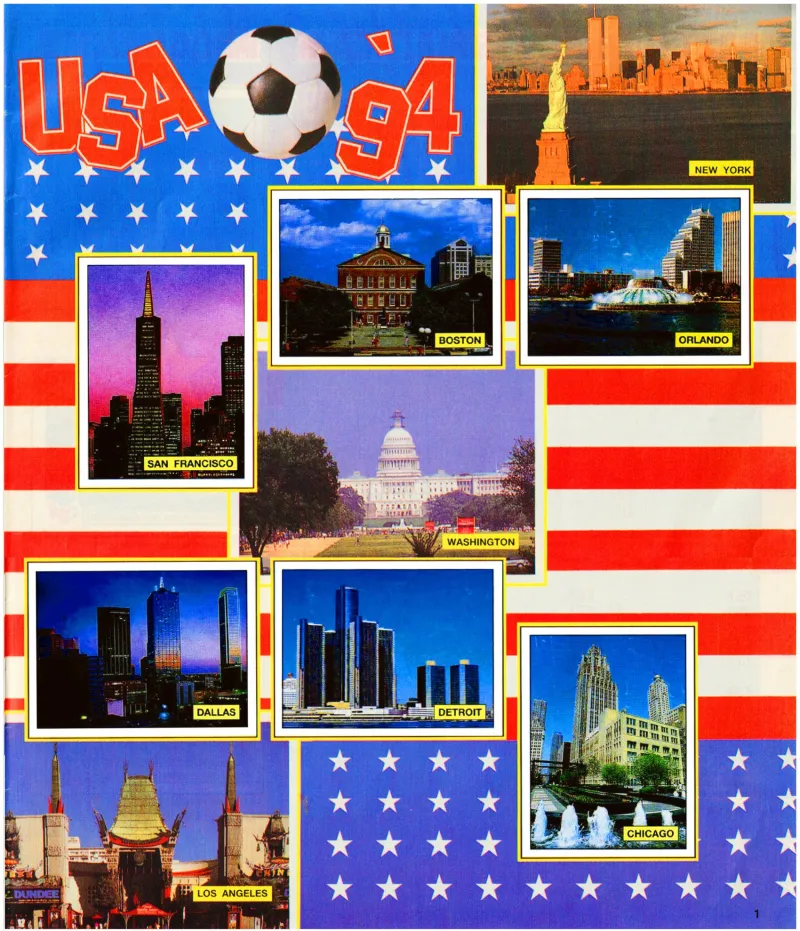
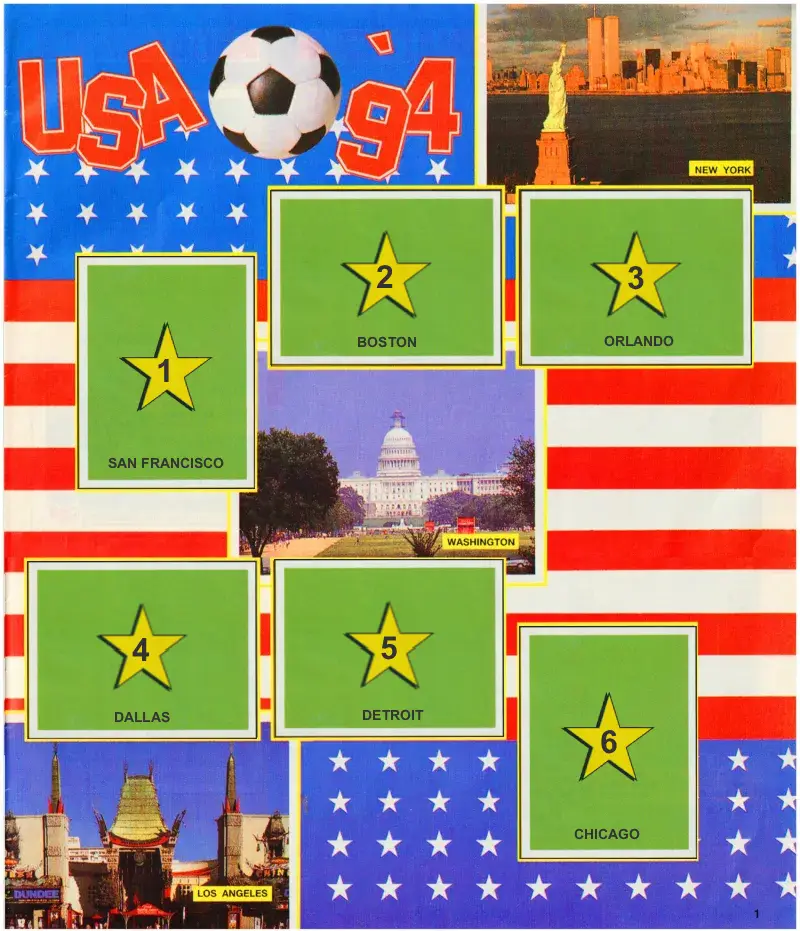
fix: Limpiar huecos vacíos del álbum y mejorar precarga de cromos
- Eliminar tooltip, borde y overlay de huecos de cromos no obtenidos
- Ampliar precarga de imágenes a 3 páginas adelante para evitar flash
- Actualizar imagen de página 3

diff --git a/resources/views/livewire/album.blade.php b/resources/views/livewire/album.blade.php
@@ -126,7 +126,7 @@
                                         @else
                                             {{-- Empty Slot (user doesn't have this sticker) --}}
                                             <div
-                                                class="sticker-slot sticker-empty absolute group"
+                                                class="sticker-slot sticker-empty absolute"
                                                 style="
                                                     left: {{ $sticker['position_x'] }}%;
                                                     top: {{ $sticker['position_y'] }}%;
@@ -135,17 +135,7 @@
                                                 "
                                                 data-sticker-id="{{ $sticker['id'] }}"
                                                 data-sticker-number="{{ $sticker['number'] }}"
-                                                title="{{ $sticker['name'] }}"
-                                            >
-                                                <div class="w-full h-full rounded border border-dashed border-gray-400/50 bg-gray-500/10 flex items-center justify-center">
-                                                    <span class="text-gray-500/70 dark:text-gray-400/50 font-medium text-xs sm:text-sm">{{ $sticker['number'] }}</span>
-                                                </div>
-                                                {{-- Tooltip --}}
-                                                <div class="sticker-tooltip opacity-0 group-hover:opacity-100 absolute bottom-full left-1/2 -translate-x-1/2 mb-1 px-2 py-1 bg-gray-800 text-white text-xs rounded whitespace-nowrap z-20 pointer-events-none transition-opacity">
-                                                    {{ $sticker['name'] }}
-                                                    <div class="absolute top-full left-1/2 -translate-x-1/2 border-4 border-transparent border-t-gray-800"></div>
-                                                </div>
-                                            </div>
+                                            ></div>
                                         @endif
                                     @endforeach
                                 @endif
@@ -269,7 +259,9 @@
                     const pagesToLoad = [
                         currentPageIndex - 1,
                         currentPageIndex,
-                        currentPageIndex + 1
+                        currentPageIndex + 1,
+                        currentPageIndex + 2,
+                        currentPageIndex + 3
                     ].filter(p => p >= 0 && p < this.totalPages);
 
                     pagesToLoad.forEach(pageIndex => {
@@ -440,16 +432,6 @@
 
         .sticker-slot:hover {
             z-index: 15;
-        }
-
-        /* Empty sticker slot */
-        .sticker-empty > div {
-            transition: all 0.2s ease;
-        }
-
-        .sticker-empty:hover > div {
-            border-color: rgba(156, 163, 175, 0.7);
-            background-color: rgba(107, 114, 128, 0.15);
         }
 
         /* Available sticker slot (looks like empty until drag) */
